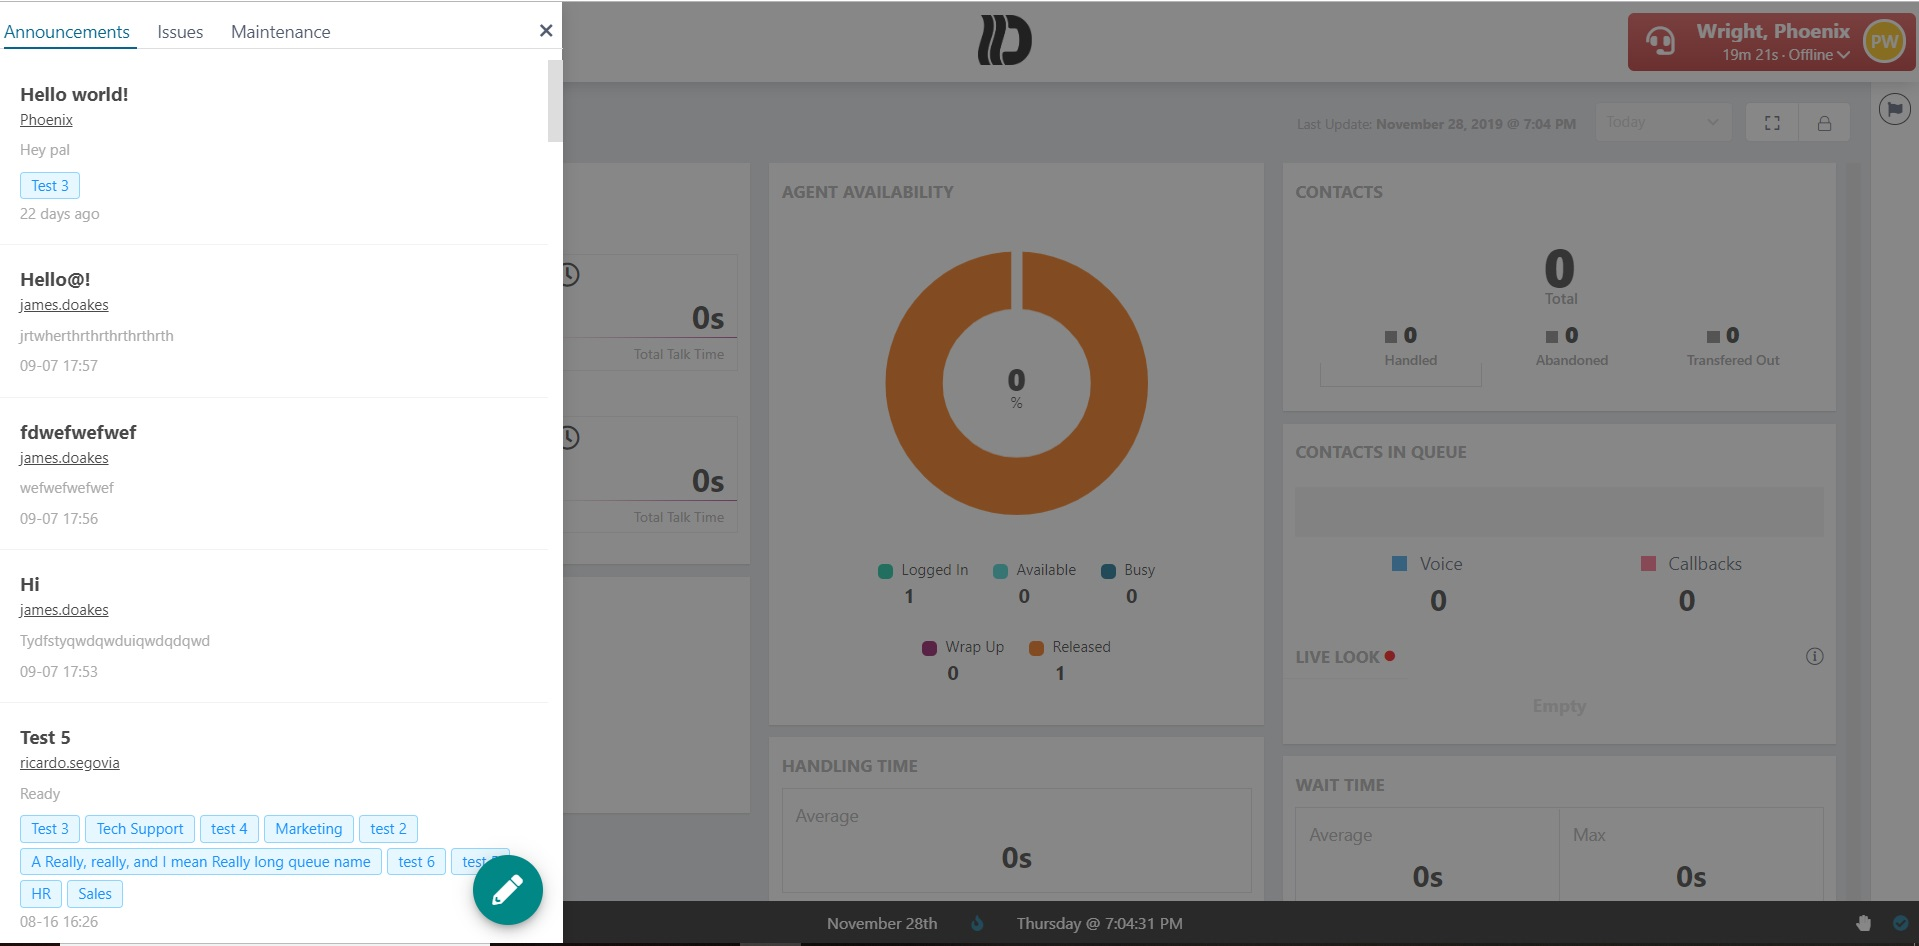
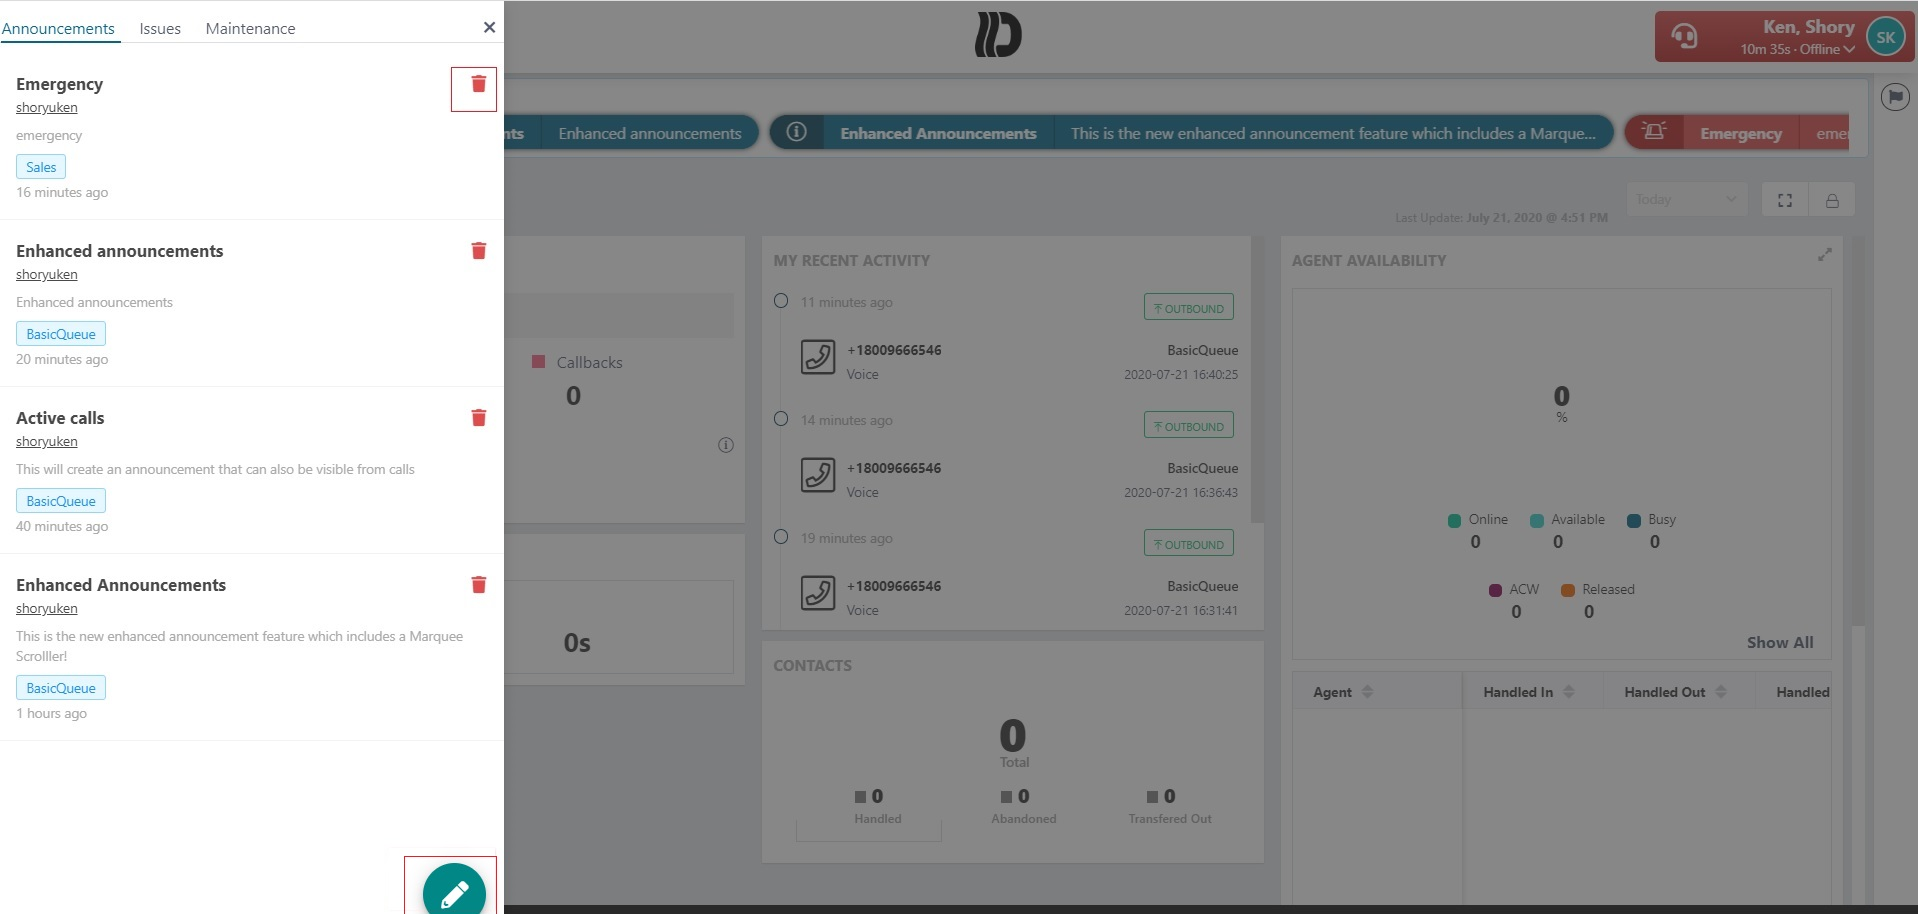
added release notes 0.9.6, marketplace, and update to Activity and Home

diff --git a/docs/_pages/onboarding.md b/docs/_pages/onboarding.md
@@ -8,14 +8,36 @@ sidebar:
   nav: "docs"
 ---
 
-After your subscription to Dextr, you'll be redirected to the Onboarding portal in order to claim your instance.
+### AWS Marketplace
+
+You can discover Dextr now since it is available in all regions via the AWS Marketplace. We offer
+Subscription (Pay-as-you-go) and Contract (Fixed price) products
+
+[![AWS Marketplace](/assets/images/discover.jpg)](/assets/images/discover.jpg)
+
+#### Subscription
+
+From AWS Marketplace, you can start your subscription process by clicking ***Continue to Subscribe***.
+
+[![AWS Subscription](/assets/images/subscription.jpg)](/assets/images/subscription.jpg)
+
+#### Set up your account
+
+After subscribing, you will be redirected to Dextr Admin portal, where you'll set up your account. 
+
+[![Dextr Account](/assets/images/setAccount.jpg)](/assets/images/setAccount.jpg)
+
+After your subscription to Dextr and setting up your account, you'll be redirected to the Onboarding portal in order to claim your instance.
 
 {% include figure image_path="/assets/images/dextrLoginOnboarding.gif" alt="Onboarding Portal"%}
 
 ----
+
+### Onboarding
+
 The Onboarding process consists of 5 steps, and the first 3 steps have an ***Explainer video*** that you can watch for guidance.
 
-### Step 1. Verify Ownership
+#### Step 1. Verify Ownership
 
 Verify ownership requires you to add ***Application integration origin***  and ***Login into Connect as Root Administrator***. Remember to also whitelist https://go.dextr.cloud to allow incoming popups.
 
@@ -52,7 +74,7 @@ You require an ***Approved origin*** in Amazon Connect. Through the Amazon Web S
 
 ----
 
-### Step 2. Grant Access
+#### Step 2. Grant Access
 
 The second step is granting access by deploying support resources. 
 
@@ -67,7 +89,7 @@ The second step is granting access by deploying support resources.
 
 [![Grant Access](/assets/images/deployed.jpg)](/assets/images/deployed.jpg)
 
-### Step 3. Data Streaming
+####  Step 3. Data Streaming
 
 In this step you can export Contact Tracer Records (CTRs) and Agent Events to perform analysis on your data. You can do so by enabling data streaming in the **Data Streaming** tab in Amazon Connect for both CTR and Agent Events. From Amazon Connect:
 
@@ -83,7 +105,7 @@ The connection will be set automatically as soon as you start making calls and i
 
 ----
 
-### Step 4. Info & Preferences
+#### Step 4. Info & Preferences
 
 In this step you're required to fill 5 obligatory fields in order to proceed to the next step. These are:
 
@@ -99,7 +121,7 @@ You also have the option to set Track Usage location.
 
 ----
 
-### Step 5 - Review and Confirm
+#### Step 5 - Review and Confirm
 
 - You'll be shown a summary of all the data that was chosen in the Onboarding process. You can always go back to a previous step to confirm and change the data you chose in Step 4. 
 

diff --git a/docs/_release_notes/release-v0.9.6-2020-07-21.md b/docs/_release_notes/release-v0.9.6-2020-07-21.md
@@ -1,0 +1,84 @@
+---
+title: "v0.9.6"
+excerpt_separator: "<!--more-->"
+collection: release_notes
+permalink: /:categories/:title/
+date: 2020-07-21
+layout: single
+toc: true
+toc_sticky: true
+categories:
+  - Release Notes
+sidebar:
+  nav: "docs"
+---
+
+## Dextr Release Notes, May 2020
+
+### Supported Browsers: 
+
+Google Chrome Version 75.0.3770.100 or later. Welcome to the July 2020 release of Dextr. 
+
+There are a number of updates in this version that we hope you like, and some of the key highlights include: 
+
+### Dextr launches in the AWS Marketplace
+
+The Dextr dashboard is now
+generally available in all regions via the AWS Marketplace. We offer
+Subscription (Pay-as-you-go) and Contract (Fixed price) products.
+
+
+[![AWS Marketplace](/assets/images/marketplace.jpg)](/assets/images/marketplace.jpg)
+
+----
+
+### Connect Lens Integration
+
+View transcripts, smart recording playback, and
+sentiment analysis from within your Dextr Dashboard.
+
+[![Contact Lens](/assets/images/contact-lens.jpg)](/assets/images/contact-lens.jpg)
+----
+
+### Enhanced Announcements
+
+Announcements can now be delivered by
+Screen pop, Persistent Marquee, or display during active calls.
+
+[![Enhanced announcements](/assets/images/enhanced.jpg)](/assets/images/enhanced.jpg)
+
+### New Admin Portal enters Beta
+
+High level observability for one or more
+Dextr + Amazon Connect instances from a single interface. Usage, Cost
+Forecasting, Historical Agent and Queue Performance, Real-Time Agent and
+Queue Performance and more.
+
+[![Admin Portal](/assets/images/admin-portal.jpg)](/assets/images/admin-portal.jpg)
+
+### Super Admin
+
+Allow users to see metrics for all queues regardless of their
+routing profile
+
+### Email Channel reaches GA
+
+Email Channel successfully completed beta
+testing and is now generally available in all regions.
+
+### Operation: Data Sovereignty
+
+Dextr now supports the ability for all data
+(collected and generated) to live within ***your*** AWS account. All new customers
+automatically follow this new design. We have defined a migration path for
+existing customers who are interested in this feature.
+
+### Bug fixes
+
+- ✓ #481 Unread messages in Agent to Agent chat. 
+- ✓ #476 Correctly warn of queue misconfiguration on outbound call. 
+- ✓ #461 Email disappearing after logout. 
+
+### Insiders: 
+
+Want to see new features as soon as possible? You can enroll in the beta program by emailing your Instance Alias to beta@dextr.cloud.  Try out the latest updates as soon as they are available.  

diff --git a/docs/_pages/home.md b/docs/_pages/home.md
@@ -37,17 +37,20 @@ The Handset is for quick dial and you can input a phone number to make a call. A
 
 #### Announcements
 
-By clicking the Bell icon in the header, you'll open the Announcements. Here you can see all the announcements related to your queue. If you're an admin, you're able to post announcements by clicking the pencil icon in the bottom side. 
+By clicking the Bell icon in the header, you'll open the Announcements. Here you can see all the announcements related to your queue. If you're an admin, you're able to post announcements by clicking the pencil icon in the bottom side, or delete them by clicking the trash icon. 
 
 [![Announcements](/assets/images/announcements.jpg)](/assets/images/announcements.jpg)
 
-To post an announcement, you need to fill out the Title, select at least one queue and write the body message. If the Urgency level is **Info**, when announcements are posted the agents will see the following screen pop:
+To post an announcement, you need to fill out the Title, select at least one queue, write the body message and choose a delivery method:
+- Screen pop delivers the announcement with an incoming dialogue.
+- Marquee scroller displays the announcement in a new row just below Dextr header.
+- Active calls displays the announcement when you're on an active call, in ***Contact Details***. 
 
-[![Urgency-Info](/assets/images/urgency-info.jpg)](/assets/images/urgency-info.jpg)
+[![Announcements 2](/assets/images/enhanced-announcements.jpg)](/assets/images/enhanced-announcements.jpg)
 
-In contrast, if the Urgency level is **Emergency**, the icon displayed will change:
+If the Urgency level is **Info**, when announcements are posted the agents will see the the announcements surrounded by a blue colour, while **Emergency** will surround it by a red colour. Clicking an announcement, either in ***Active call*** or ***Marquee*** will open the announcement drawer in the corresponding post.
 
-[![Urgency-Emergency](/assets/images/urgency-emergency.jpg)](/assets/images/urgency-emergency.jpg)
+[![Announcements 3](/assets/images/enhanced-announcements2.jpg)](/assets/images/enhanced-announcements2.jpg)
 
 ----
 

diff --git a/docs/_pages/activity.md b/docs/_pages/activity.md
@@ -58,7 +58,7 @@ There is also Channel (SMS, Email, Voice, Chat, Callback) and Durations (Queued 
 
 ----
 
-#### Activity Details
+### Activity Details
 
 In the right corner of the dashboard there is a zoom icon that if clicked, enhances the level of details shown per record.
 
@@ -74,9 +74,16 @@ You also have the option to keep track of the interactions with a customer throu
 
 #### Activity Notes
 
-On Activity Details you can add Notes per call by clicking the **Add Note** button.
+Per records, you're able to add notes by creating them. This is done when clicking the **Add a note** button. 
 
 [![Activity Notes](/assets/images/activity-note.jpg)](/assets/images/activity-note.jpg)
+
+#### Contact Lens
+
+You can also view transcripts, sentiment analysis and smart recording playback thanks to the  ***Contact Lens*** integration.
+
+[![Analysis](/assets/images/analysis.jpg)](/assets/images/analysis.jpg)
+
 
 <style>
    h4 {
